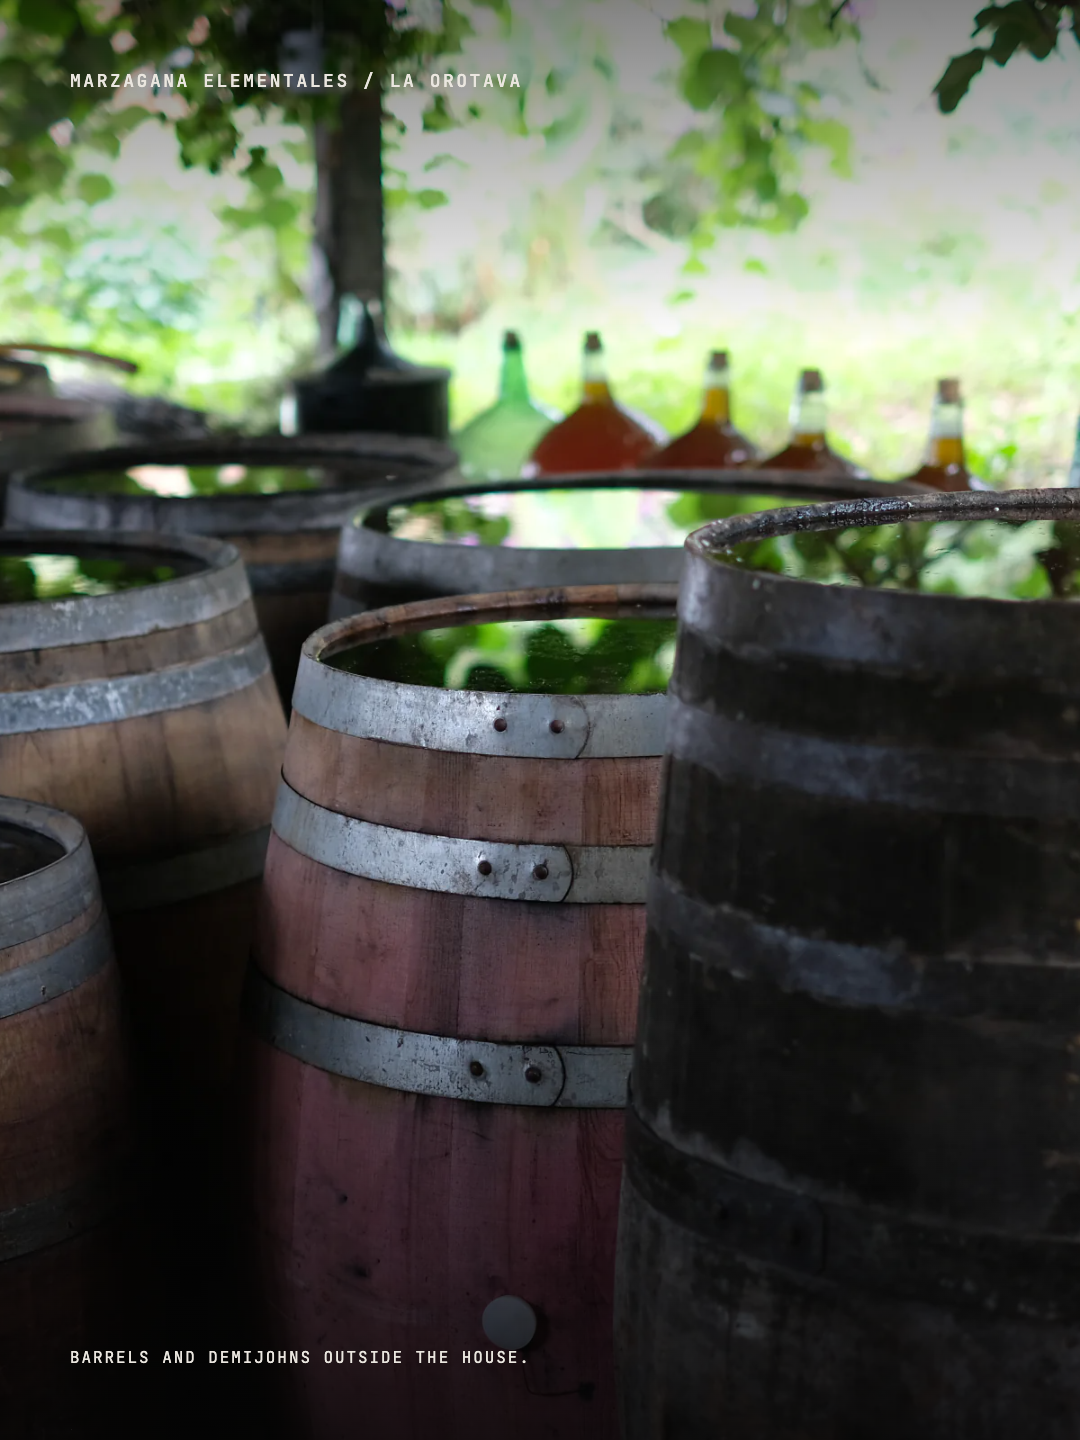
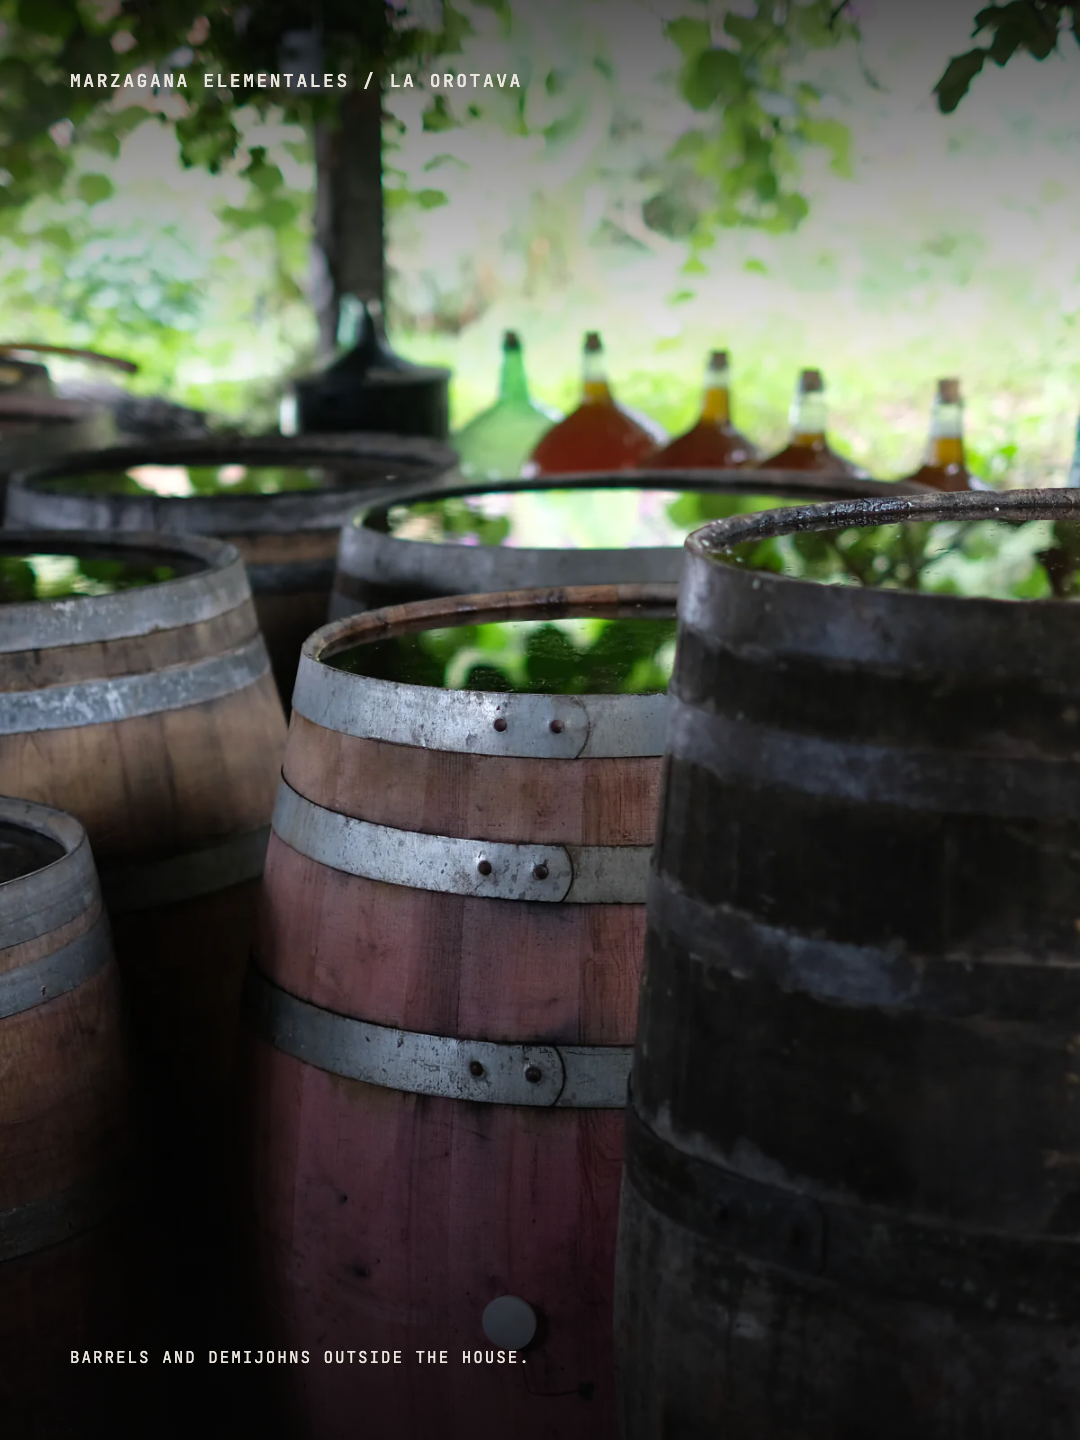
Changed French Disko

Changed region(s): [[0.3361, 0.0, 1.0, 0.1875], [0.0, 0.0, 0.3056, 0.1875]]

diff --git a/src/content/selections/domaine-matassa-french-disko-2023.md b/src/content/selections/domaine-matassa-french-disko-2023.md
@@ -8,7 +8,7 @@ type: "Red"
 grapes: "Cinsault"
 price: "42 €"
 tags: ["Carbonic", "Natural"]
-vibe: "Redcurrant. Sanguine. Spices."
+vibe: "Redcurrant. Sanguine. Weightless."
 metrics:
   liveliness: 2
   drinkability: 2
@@ -26,6 +26,6 @@ tastingDate: 2026-07-21
 
 French Disko is 100% Cinsault from the Roussillon. The 2023 saw a short maceration and nine months in concrete, and comes in at just 10% alcohol.
 
-It started closed, with something animal to it, a light trace of leather. The first impression on the palate was bitterness. Then it opened and came alive: profoundly sanguine, agile, a dancing wine that only got better as the meal went on. We were eating muhammara, tomatoes, and pine nuts on sourdough, and the wine rose to meet them, lifting each one. Beneath it all were very fresh red fruit and gorgeous acidity, natural and seamlessly integrated.
+It started closed, with something animal to it, a light trace of leather. The first impression on the palate was bitterness. Then it opened and came alive: profoundly sanguine, agile, a dancing wine that only got better as the meal went on. With time it began to show a spiced side too, some pepper, carried by a very delicate herbal note. We were eating muhammara, tomatoes, and pine nuts on sourdough, and the wine rose to meet them, lifting each ingredient. It showed very fresh red fruit and gorgeous acidity, natural and seamlessly integrated.
 
-A wine of joy, for the daytime, without a gram of weight. Weightless, with an inspiring delicacy. French Disko truly earns its name.
+A wine of joy, for the daytime, without a gram of weight. Truly weightless, with an inspiring delicacy. French Disko is a very suitable name.